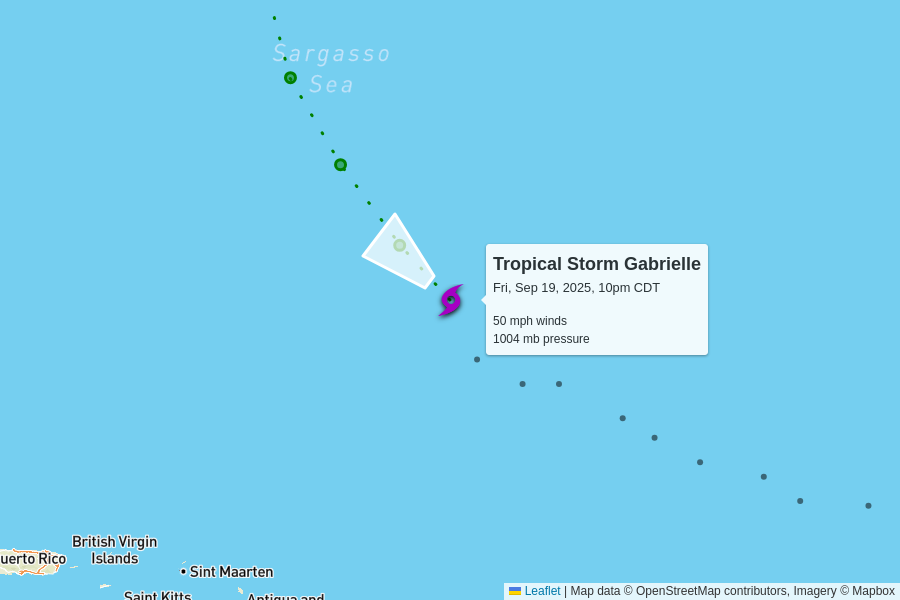
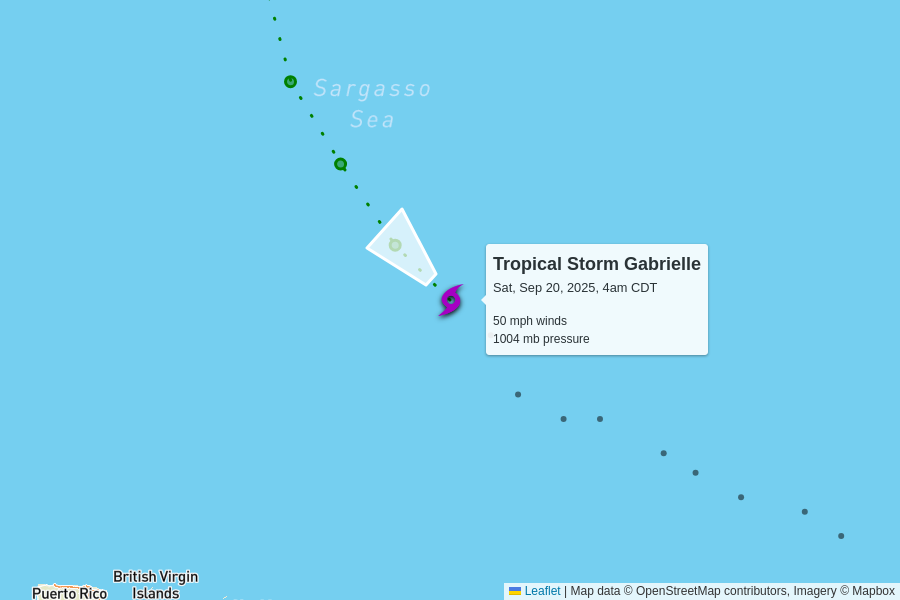
automatic update

diff --git a/docs/index.html b/docs/index.html
@@ -102,7 +102,7 @@
         <td colspan="6" class="storm category-0" >
           <h2>
             Tropical Storm Gabrielle
-            <p class="updated">last updated <span data-time>2025-09-20T03:00:00.000Z</span></p>
+            <p class="updated">last updated <span data-time>2025-09-20T09:00:00.000Z</span></p>
           </h2>
         </td>
       </tr>
@@ -120,9 +120,9 @@
         <td>50 mph<br>0 mph since last update</td>
         <td>1004 mb<br>0 mb since last update</td>
         <td>
-          12 mph to the northwest
+          13 mph to the northwest
           <br/>
-          <span style="display: inline-block; font-size: 1.5em; transform: rotate(310deg);">↑</span>
+          <span style="display: inline-block; font-size: 1.5em; transform: rotate(315deg);">↑</span>
         </td>
         <td><a href="https://raw.githubusercontent.com/mgwalker/atlantic-hurricanes/main/data/csv/AL072025.csv">AL072025.csv</a></td>
         <td><a href="https://www.nhc.noaa.gov/archive/2025/GABRIELLE.shtml?">NHC advisories</a></td>
